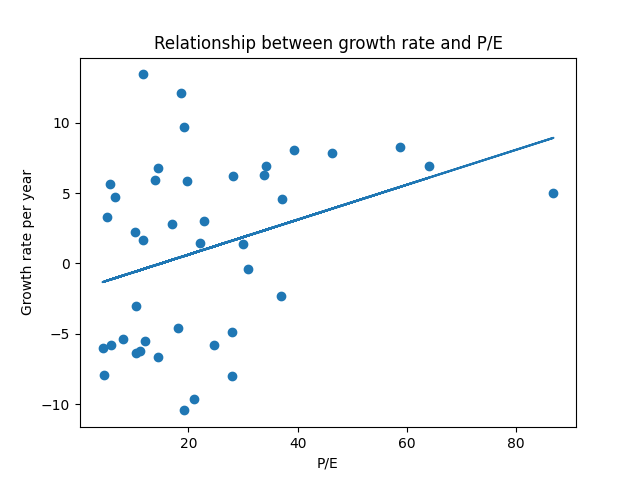
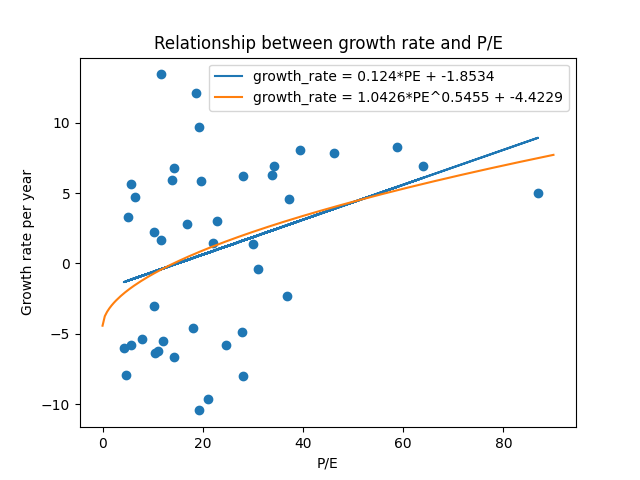
Added Analysis.md

diff --git a/DataAnalysis.py b/DataAnalysis.py
@@ -22,14 +22,27 @@ growth_rates = np.array([((stats2024[company.ticket].price / stats2022[company.t
 growth_rates = np.sign(growth_rates) * (np.abs(growth_rates) ** (1 / number_of_years_between)) # Deals with negative growth rates
 
 slope, intercept, r_value, p_value, std_err = scipy.stats.linregress(previous_pe, growth_rates)
+print("Linear regression")
+print(f"growth_rate = {round(slope, 4)}*PE + {round(intercept, 4)}")
+print(f"r^2 = {round(r_value ** 2, 4)}")
+print(f"p = {round(p_value, 4)}")
+
+slope_sqrt, intercept_sqrt, r_value_sqrt, p_value_sqrt, std_err = scipy.stats.linregress(
+    previous_pe ** (1 / number_of_years_between), growth_rates)
+print("Root regression")
+print(f"growth_rate = {round(slope_sqrt, 4)}*PE^{round(1 / number_of_years_between, 4)} + {round(intercept_sqrt, 4)}")
+print(f"r^2 = {round(r_value_sqrt, 4)}")
+print(f"p = {round(p_value_sqrt, 4)}")
 
 plt.title("Relationship between growth rate and P/E")
 plt.xlabel("P/E")
 plt.ylabel("Growth rate per year")
 plt.scatter(previous_pe, growth_rates)
-plt.plot(previous_pe, slope*previous_pe+intercept)
-print(f"growth_rate = {slope}*PE + {intercept}")
-print(f"r^2 = {round(r_value ** 2, 4)}")
-print(f"p = {round(p_value, 4)}")
+plt.plot(previous_pe, slope*previous_pe+intercept, label=f"growth_rate = {round(slope, 4)}*PE + {round(intercept, 4)}")
+
+linearspace = np.linspace(0, 90, 200)
+plt.plot(linearspace, slope_sqrt*(linearspace**(1 / number_of_years_between)) + intercept_sqrt, label = f"growth_rate = {round(slope_sqrt, 4)}*PE^{round(1 / number_of_years_between, 4)} + {round(intercept_sqrt, 4)}")
+
+plt.legend()
 plt.savefig("growth_pe_graph.png")
 plt.show()

diff --git a/Analysis.md b/Analysis.md
@@ -1,0 +1,154 @@
+# Introduction
+When investing in companies, we want to choose the ones that will give us the highest returns over time. One of the common ways this is achieved are capital gains, meaning that the price of companies' stocks increased, and we sold it at a higher value. To find the most likely companies to grow in the future, we look at several data points about them. Two such statistics we are going to look at include stock price, and earning per share (yearly). If we divide stock price, and EPS, we get P/E ratio. P/E ratio hence indicates how many years would it take at the current rate for earning from this company to cover the cost of the share we bought. Therefore, if earnings did not grow, it would not make sense for people to wait longer for their investment to bear fruit. Hence, investors would only invest in it, if they thought the companies' revenue would increase in the future. But if revenue increses the total value the investors value the company should increase, and hence the stock price should go up. Therefore, if P/E did not correlate with higher future growth, it would make no sense to invest in them, and investors would be investing in a bubble. Henceforth, I am going to analyze whether higher P/E companies have higher growth rates in the future.
+
+# Data collection
+All the data were collected from [TradingView](https://www.tradingview.com/markets/stocks-usa/market-movers-all-stocks/), from their all US stocks list. [The version from end of June](./Data/TradingView-2024.html) was downloaded directed from TradingView, and [August 2022 version](./Data/TradingView-2022.html) comes from [web.archive.org](https://web.archive.org/web/20220827030431/https://www.tradingview.com/markets/stocks-usa/market-movers-all-stocks/).  
+
+The archived version gave me access to first 100 companies alphabetically, which are sold on US stock exchanges. I have looked, whether the selection could be considered as a random sample of US companies, and the companies were from all industries, and ranged from small to giants, and hence are a good representation of the US stock market overall.
+
+The August 2022 was chosen because companies were not effected by COVID by then, and hence were operating like they normally would. Therefore, we will not be measuring compared to abnormal era, which would result in many outliers.
+
+The data were parsed from downloaded html files in [CompanyStats.py](./CompanyStats.py)
+```py
+from dataclasses import dataclass
+from bs4 import BeautifulSoup
+import re
+
+@dataclass
+class Company:
+    ticket: str
+    price: float = None
+    pe: float = None
+
+class CompanyStats:
+    findTag = {
+        2022: {
+            "company_div": ("tr", "row-iVZpYhgj listRow"),
+            "ticket": ("a", "apply-common-tooltip tickerName-absbzmSX"),
+            "columns": ("td", "cell-s_9Ijkac right-s_9Ijkac"),
+            "priceIdx": 0,
+            "peIdx": lambda columns: 6 if len(columns) == 9 else 4
+        },
+
+        2024: {
+            "company_div": ("tr", "row-RdUXZpkv listRow"),
+            "ticket": ("a", "apply-common-tooltip tickerNameBox-GrtoTeat tickerName-GrtoTeat"),
+            "columns": ("td", "cell-RLhfr_y4 right-RLhfr_y4"),
+            "priceIdx": 0,
+            "peIdx": lambda columns: 5
+        }
+    }
+    
+    def __init__(self, filename: str, year: int):
+        with open(filename) as file:
+            searchTags = CompanyStats.findTag[year]
+            soup: BeautifulSoup = BeautifulSoup(file, "html.parser")
+            companies = soup.find_all(searchTags["company_div"][0], attrs={"class": searchTags["company_div"][1]})
+            self.stats = {}
+            for company in companies:
+                ticket = company.find(searchTags["ticket"][0], attrs={"class": searchTags["ticket"][1]}).text
+
+                columns = company.find_all(searchTags["columns"][0], attrs={"class": searchTags["columns"][1]})
+
+                priceIdx = searchTags["priceIdx"]
+                peIdx = searchTags["peIdx"](columns)
+
+                if len(columns) == 0: continue
+
+                price = float(re.findall("\\d+\\.\\d+", columns[priceIdx].text)[0]) # Do not care about currency
+                pe = float(columns[peIdx].text) if columns[peIdx].text != "—" else None
+
+                self.stats[ticket] = Company(ticket, price, pe)
+
+    def getStats(self) -> dict:
+        return self.stats
+
+```
+
+After parsing both files, I only saved companies, which were present in both files, and had required info filled in. We are left with 75 companies.
+```py
+import scipy
+
+from CompanyStats import CompanyStats
+import numpy as np
+import matplotlib.pyplot as plt
+
+stats2022: dict = CompanyStats("Data/TradingView-2022.html", 2022).getStats()
+stats2024: dict = CompanyStats("Data/TradingView-2024.html", 2024).getStats()
+
+number_of_years_between = 22 / 12
+
+ignore_companies = {}
+
+common_companies = stats2022.keys() & stats2024.keys()
+
+companies = [stats2022[company] for company in common_companies if (stats2022[company].pe
+             is not None and company not in ignore_companies)]
+
+
+previous_pe = np.array([company.pe for company in companies])
+growth_rates = np.array([((stats2024[company.ticket].price / stats2022[company.ticket].price) - 1) * 100 for company in companies])
+growth_rates = np.sign(growth_rates) * (np.abs(growth_rates) ** (1 / number_of_years_between)) # Deals with negative growth rates
+```
+
+# Data analysis
+Since we want to find whether growth rate changes with P/E, we can use linear regression, and set our null hypothesis to slope being zero, and alternative hypothesis to growth rate is correlated with P/E.
+```py
+slope, intercept, r_value, p_value, std_err = scipy.stats.linregress(previous_pe, growth_rates)
+ print("Linear regression")
+print(f"growth_rate = {round(slope, 4)}*PE + {round(intercept, 4)}")
+print(f"r^2 = {round(r_value ** 2, 4)}")
+print(f"p = {round(p_value, 4)}")
+```
+We get linear function of $growth_rate = 0.124*PE - 1.8534$. 
+PE determines 11.16% of growth rate ($r^2$), and the probability that we would get this data by chance, and the real slope would be 0 is 3.38%, which is  below our significance level, and hence I reject the null hypothesis.
+
+Even though we found that they are correlated, the fit is really poor. Hence to model data better, I can use idea, that since the growth is exponential, and the dominant term will be the last year. I can approximate, how much growth would be necessary, to match the lower P/E company.
+
+Let $r$ be the ratio of P/E of two companies, and $g$ the ratio between growth rates, and $y$ number of years of growth.
+$$r = g^y$$
+$$r^{1/y} = g$$
+
+```py
+slope_sqrt, intercept_sqrt, r_value_sqrt, p_value_sqrt, std_err = scipy.stats.linregress(
+    previous_pe ** (1 / number_of_years_between), growth_rates)
+print("Root regression")
+print(f"growth_rate = {round(slope_sqrt, 4)}*PE^{round(1 / number_of_years_between, 4)} + {round(intercept_sqrt, 4)}")
+print(f"r^2 = {r_value_sqrt}")
+print(f"p = {round(p_value_sqrt, 4)}")
+```
+Since the number of years is 22/12, the function we will get has a dominant term with exponent 12/22
+The best fitting curve is $`growth\_rate = 1.0426*PE^{0.5455} - 4.4229$
+$r^2$ increases a lot to 33.76%, and $p$ with the null hypothesis of constant function is 3.09%, which is under 5% significance level, hence I am again rejecting the null hypothesis.
+
+Graph showing fit
+
+```py
+plt.title("Relationship between growth rate and P/E")
+plt.xlabel("P/E")
+plt.ylabel("Growth rate per year")
+plt.scatter(previous_pe, growth_rates)
+plt.plot(previous_pe, slope*previous_pe+intercept, label=f"growth_rate = {round(slope, 4)}*PE + {round(intercept, 4)}")
+
+linearspace = np.linspace(0, 90, 200)
+plt.plot(linearspace, slope_sqrt*(linearspace**(1 / number_of_years_between)) + intercept_sqrt, label = f"growth_rate = {round(slope_sqrt, 4)}*PE^{round(1 / number_of_years_between, 4)} + {round(intercept_sqrt, 4)}")
+
+plt.legend()
+plt.savefig("growth_pe_graph.png")
+plt.show()
+```
+
+
+
+![growth_pe_graph.png](./img/growth_pe_graph.png)
+
+# Discussion
+Concerning outliers, I did not want to blindly delete data points outside range. Due to the nature of this problem, where people want to find company, with possibility of large returns, and risking that it will be a bubble, and drop. The other option of reasonably valued company growing well. Since people cherry-pick stocks to maximize returns, it would not make sense to exclude them.
+
+I tried looking whether some of the outliers had some event, that would disqualify them, such them having P/E drastically changed few days after the old snapshot, meaning we worked with data really out of date. Or whether drastically changed just for a moment when we took a snapshot. I did not find any discrepancies, so I did not exclude anyone.
+
+Looking at the graph, we can say that low P/E does not mean low growth. In fact, some of the fastest growing companies had P/E < 20. However, this is likely due to there being much more companies at this range, and the chance of an outlier is larger.
+
+Despite there being companies with smaller P/E, and a higher growth. The probability of company with smaller P/E having bad growth is much larger than company with high P/E having bad growth.
+
+In the end, we can say that higher P/E companies have a higher growth rate, but not by much.
